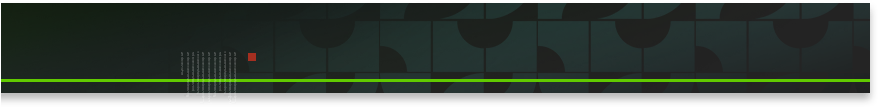
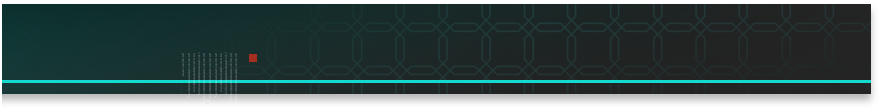
8190425

Changed region(s): [[0.0, 0.0278, 1.0, 0.8889], [0.5222, 0.1944, 0.5836, 0.25], [0.5222, 0.2778, 0.5836, 0.3056]]

diff --git a/readme.md b/readme.md
@@ -2,7 +2,7 @@
 all UI resource from arknights:endfield Android.<br/>
 
 > game version: 1.3<br/>
-> res version: initial_7905387-12_main_7905387-12<br/>
+> res version: initial_8190425-16_main_8190425-16<br/>
 > platform: Android<br/>
 > server: CN<br/>
 
